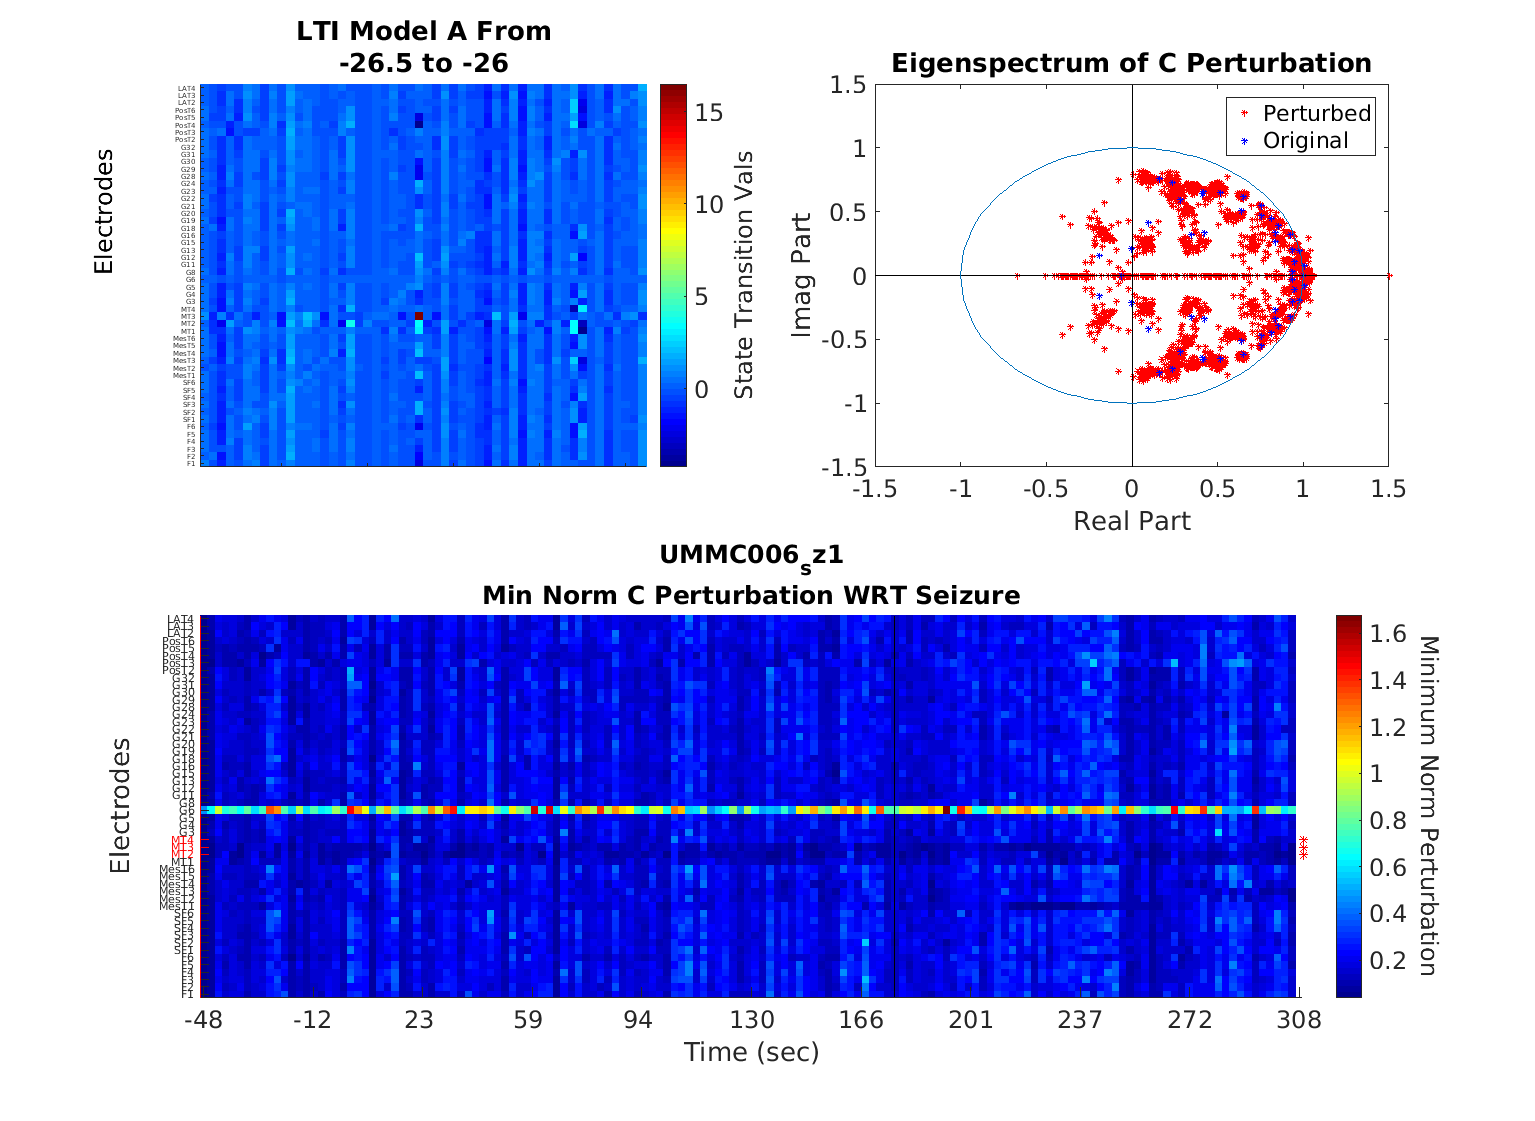
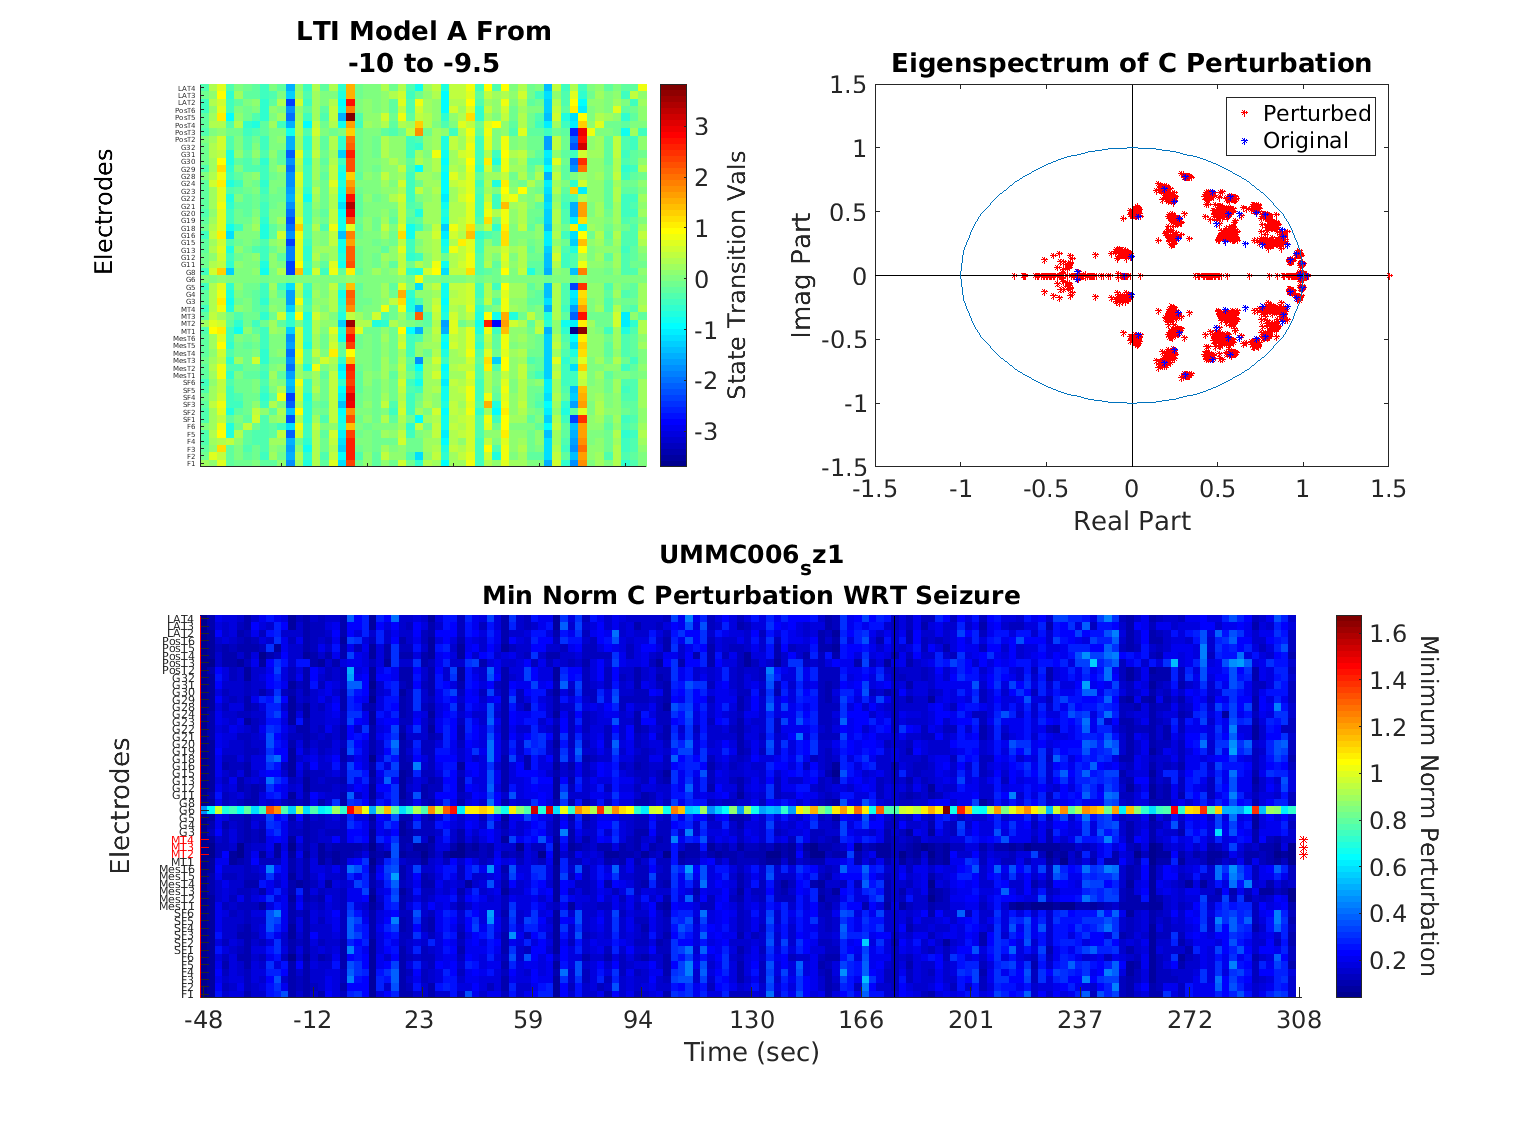
Fixing UMMC006 and 009 to get rid of the right electrodes.

Changed region(s): [[0.1225, 0.0312, 0.4287, 0.4371], [0.6736, 0.1561, 0.8573, 0.3434], [0.4593, 0.1249, 0.4899, 0.3747]]

diff --git a/fragility_dataanalysis/determineClinicalAnnotations.m b/fragility_dataanalysis/determineClinicalAnnotations.m
@@ -613,7 +613,8 @@ function [included_channels, onset_electrodes, ...
         success_or_failure = 1;
         center = 'ummc';
     elseif strcmp(patient_id, 'UMMC006')
-        included_channels = [1:22 24:27 29 31:33 35:56];
+        included_channels = [1:22 24:29 31:33 35:56]; 
+        included_channels = [1:22 24:26 28:29 31:33 35:56]; % got rid of G6
         onset_electrodes = {'MT2', 'MT3', 'MT4', 'MES2', 'MES3', 'MES4', 'MES5', 'MAT1', 'MAT2'};
         earlyspread_labels = {};
         latespread_labels = {};
@@ -647,7 +648,7 @@ function [included_channels, onset_electrodes, ...
         success_or_failure = 1;
         center = 'ummc';
     elseif strcmp(patient_id, 'UMMC009')
-        included_channels = [1:10 12:30];
+        included_channels = [1:9 11:30];
         onset_electrodes = {'G4', 'G5', 'G6', 'G7', 'G12', 'G14', 'PT1', 'AT1'};
         earlyspread_labels = {};
         latespread_labels = {};

diff --git a/fragility_dataanalysis/runPatientPlots.m b/fragility_dataanalysis/runPatientPlots.m
@@ -50,10 +50,10 @@ patients = {,...,
 %     'UMMC003_sz1', 'UMMC003_sz2', 'UMMC003_sz3', ...
 %     'UMMC004_sz1', 'UMMC004_sz2', 'UMMC004_sz3', ...
 %     'UMMC005_sz1', 'UMMC005_sz2', 'UMMC005_sz3', ...
-%     'UMMC006_sz1', 'UMMC006_sz2',  'UMMC006_sz3', ...
+    'UMMC006_sz1', 'UMMC006_sz2',  'UMMC006_sz3', ...
 %     'UMMC007_sz1', 'UMMC007_sz2','UMMC007_sz3', ...
 %     'UMMC008_sz1', 'UMMC008_sz2', 'UMMC008_sz3', ...
-    'UMMC006_sz3', 'UMMC009_sz1', 'UMMC009_sz2', 'UMMC009_sz3', ...
+%     'UMMC009_sz1', 'UMMC009_sz2', 'UMMC009_sz3', ...
     };
 close all;
 %% Parameters for Analysis
